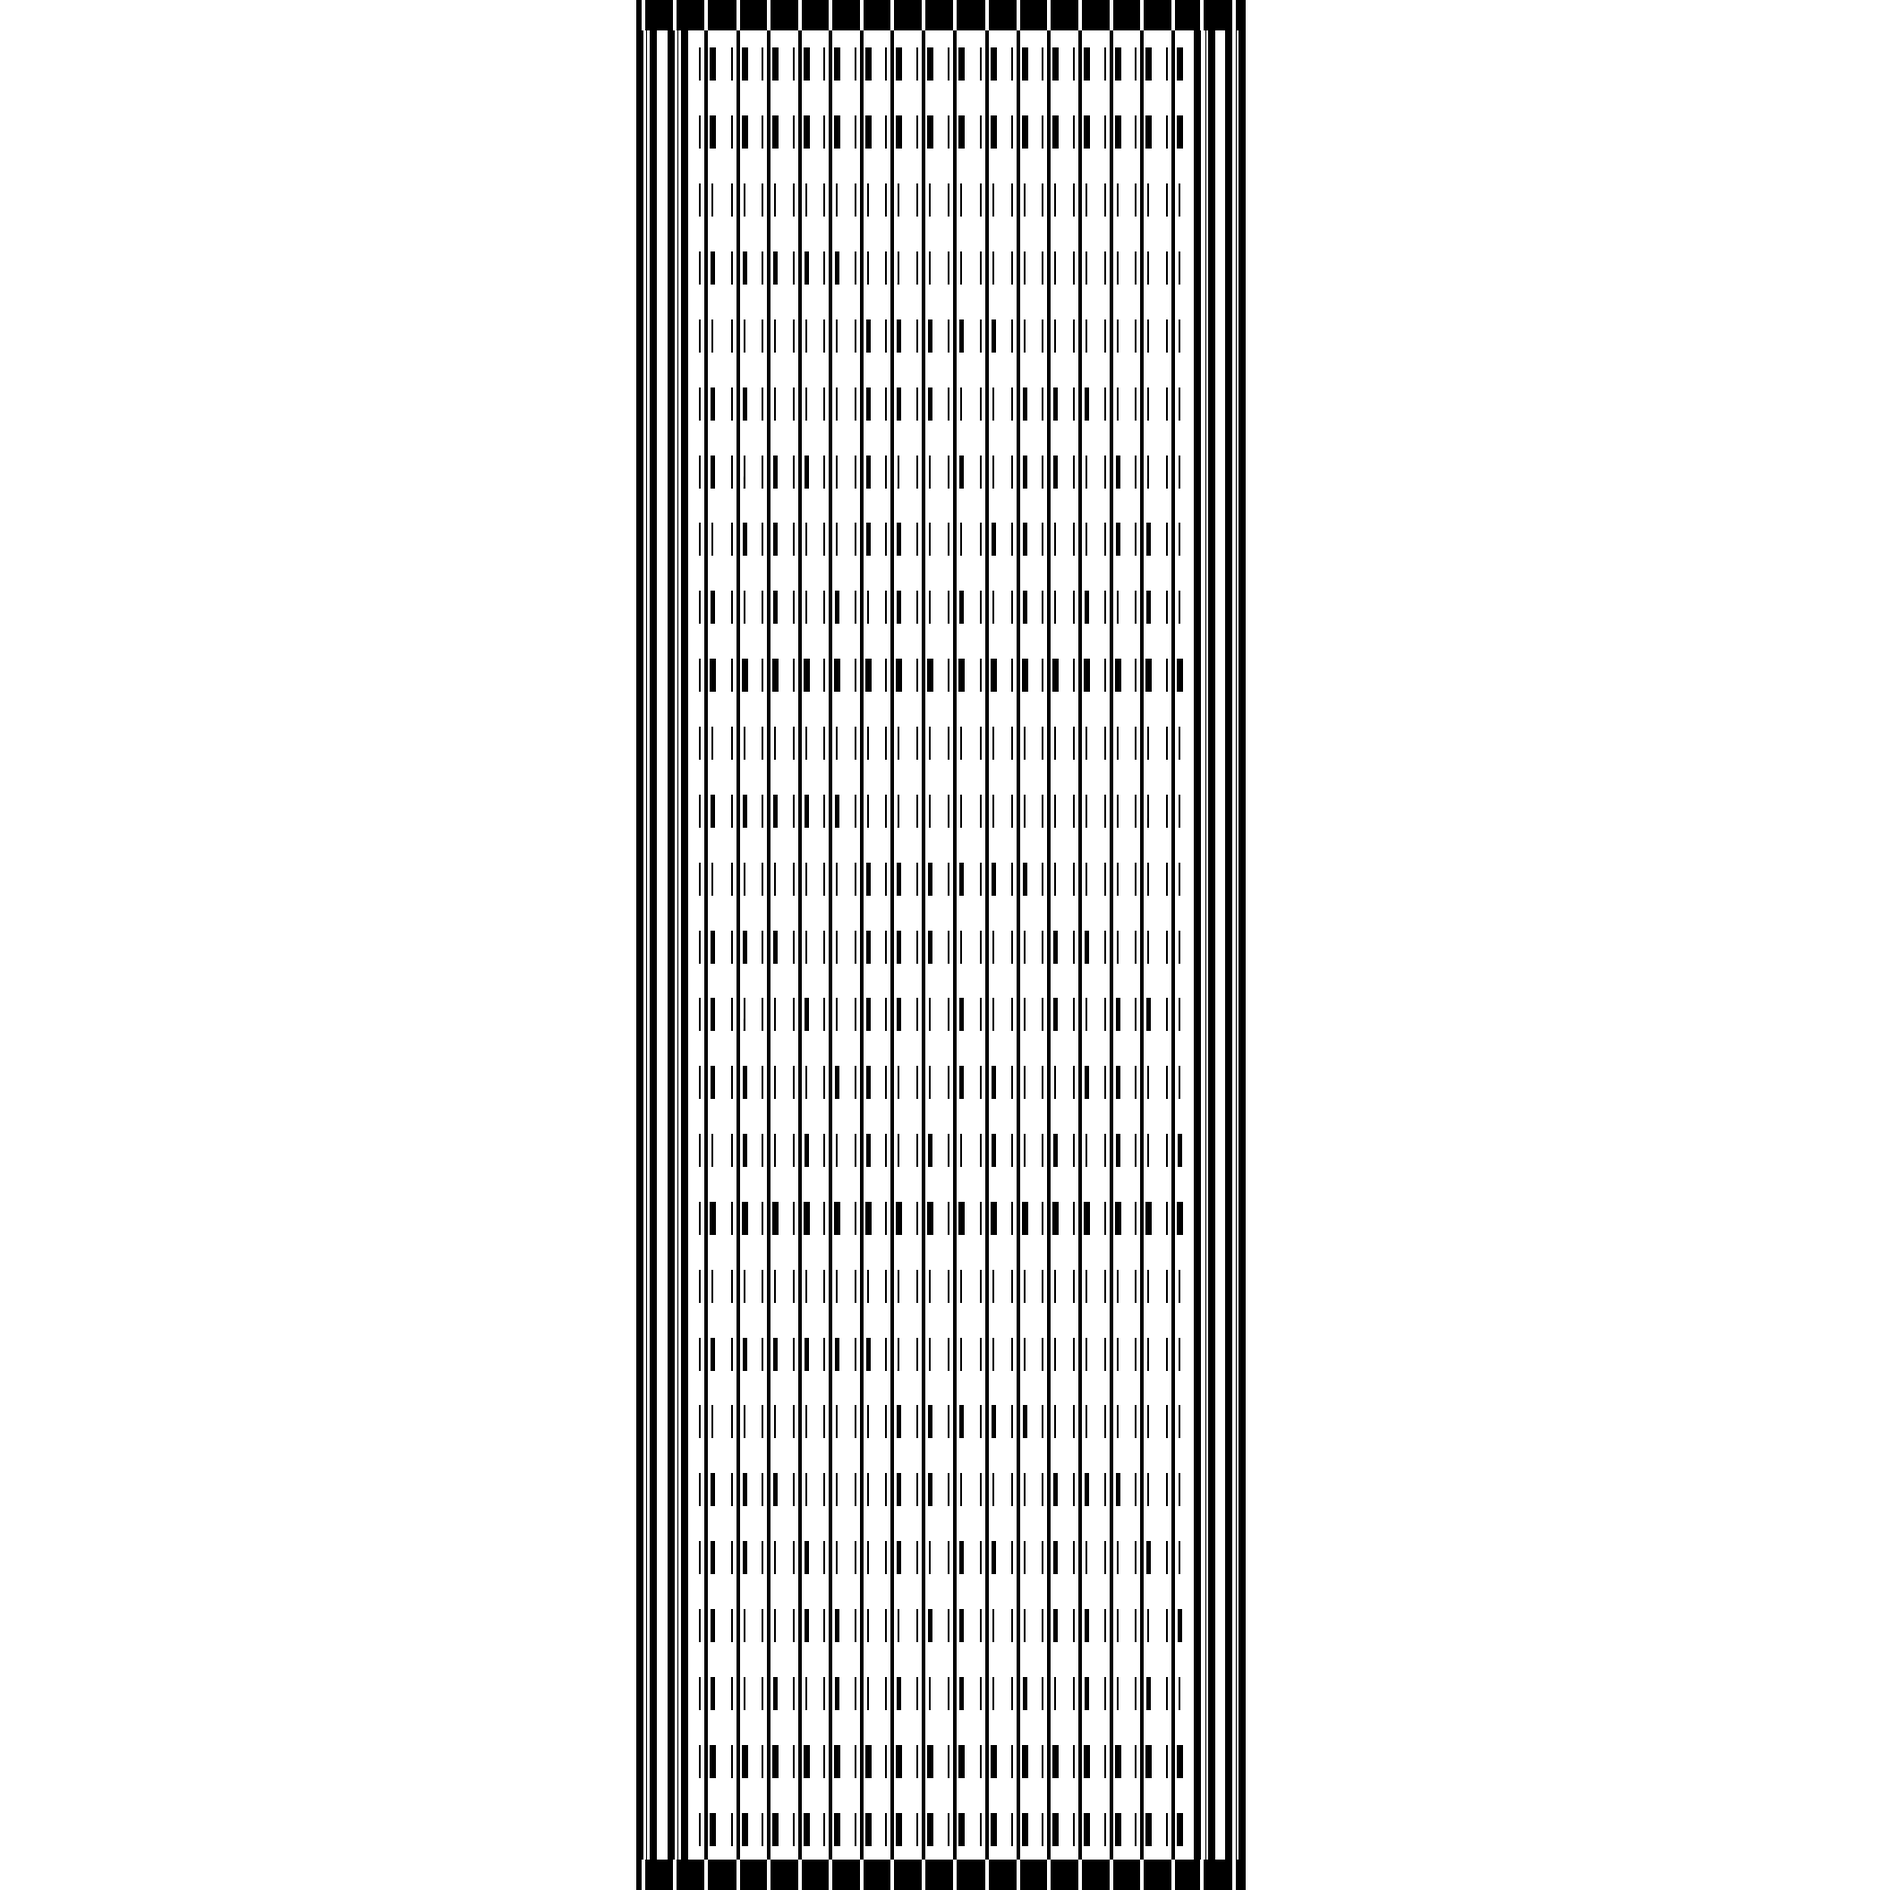
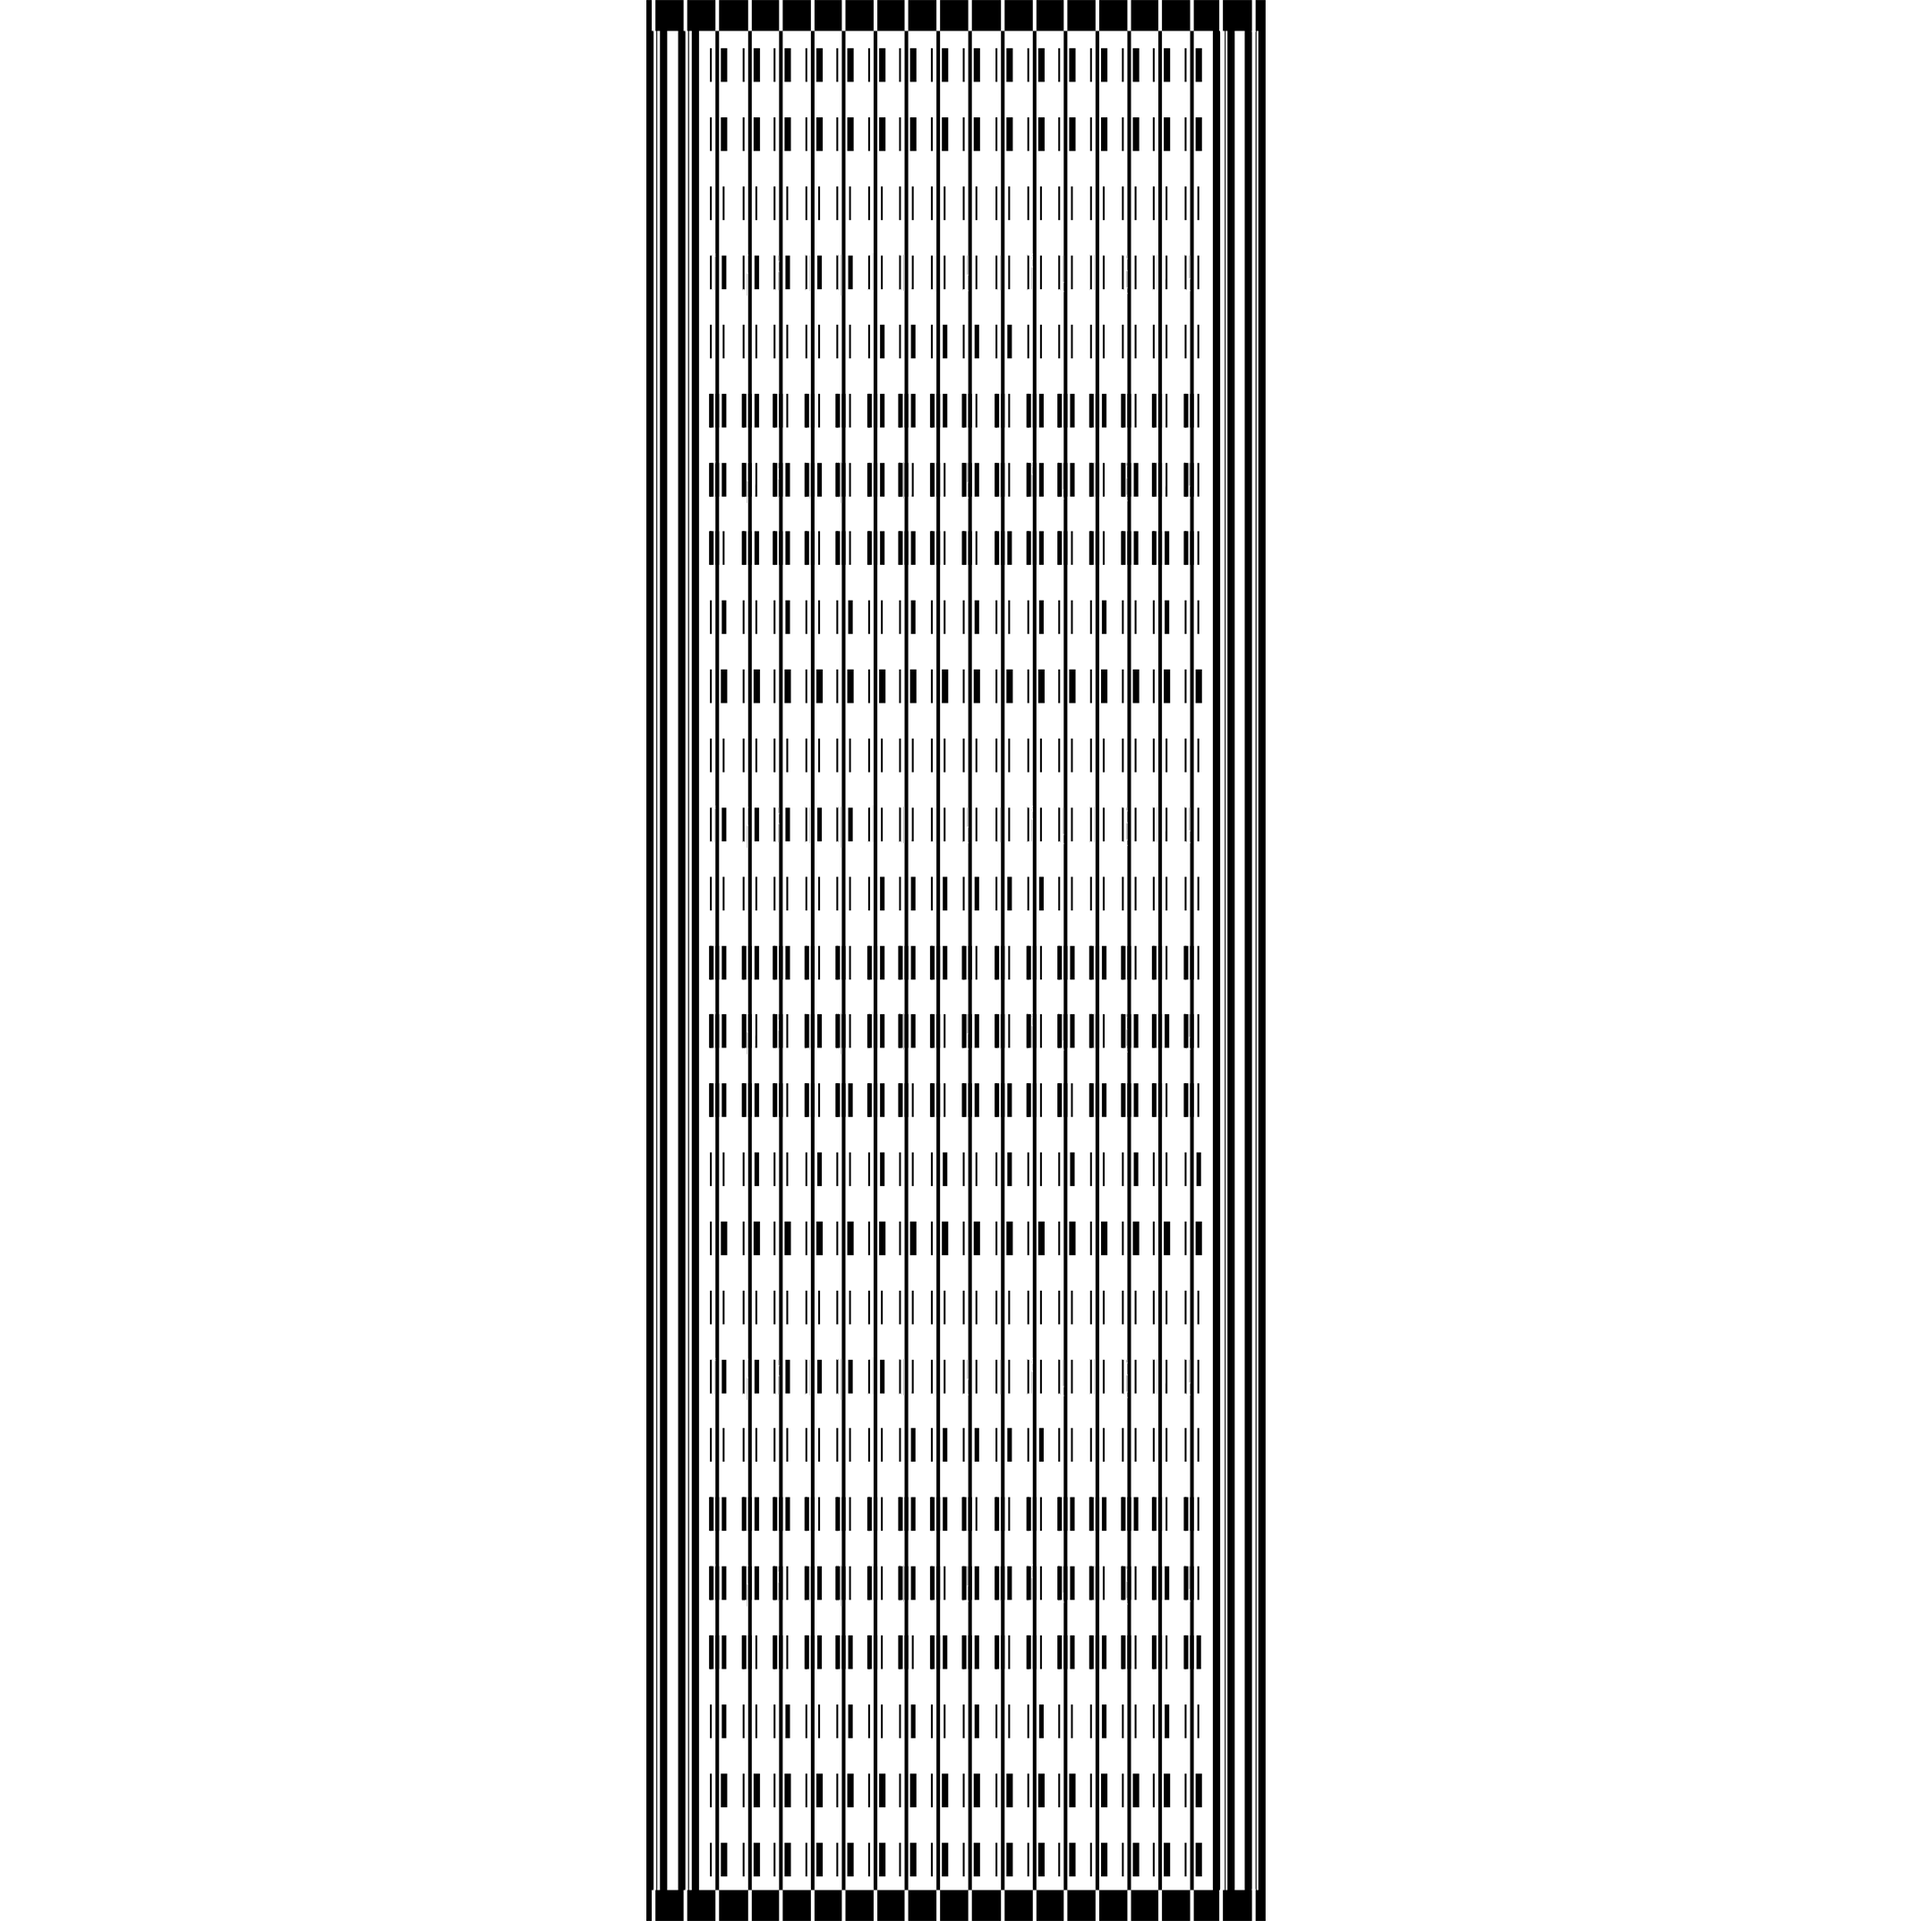
Finished Task place and move track pieces

Changed region(s): [[0.3438, 0.0, 0.6562, 1.0]]

diff --git a/src/app/track-editor/track-editor.component.ts b/src/app/track-editor/track-editor.component.ts
@@ -1,10 +1,13 @@
-import {AfterViewInit, Component, OnInit, ViewChild} from '@angular/core';
+import {AfterViewInit, Component, Inject, OnInit, ViewChild} from '@angular/core';
 import {MatSidenav} from '@angular/material/sidenav';
 import {SideNavRightService} from '../services/side-nav-right.service';
 import {SideNavLeftService} from '../services/side-nav-left.service';
-import {MatDialog} from '@angular/material/dialog';
+import {MAT_DIALOG_DATA, MatDialog} from '@angular/material/dialog';
 import {DisplayGrid, GridsterConfig, GridsterItem, GridType} from 'angular-gridster2';
 import {TeRightSidebarContentComponent} from '../te-right-sidebar-content/te-right-sidebar-content.component';
+import {FormGroup} from '@angular/forms';
+import {HttpClient, HttpHeaders, HttpParams} from '@angular/common/http';
+import {GridItem} from '../model/grid-item';
 
 @Component({
   selector: 'app-track-editor',
@@ -16,13 +19,16 @@ export class TrackEditorComponent implements AfterViewInit, OnInit{
   @ViewChild('sidenav_left') public sidenav_left: MatSidenav;
 
   options: GridsterConfig;
+  maxCols: number = 5; //default
+  maxRows: number = 5; //default
   grid_items: {item: GridsterItem, type: string, url: string, id: number, degree: number}[] = [];
+  grid_item_list: Array<GridItem> = []
+  id_counter: number = 1
 
   constructor(public sidenavServiceRight: SideNavRightService,
               public sideNavServiceLeft: SideNavLeftService,
-              public dialog: MatDialog) {
-
-  }
+              public dialog: MatDialog,
+              public httpClient: HttpClient) {}
 
   ngAfterViewInit(){
     this.sidenavServiceRight.setSidenav(this.sidenav_right);
@@ -33,9 +39,14 @@ export class TrackEditorComponent implements AfterViewInit, OnInit{
     this.options = {
       gridType: GridType.Fixed,
       displayGrid: DisplayGrid.Always,
+      margin: 2,
+      outerMarginBottom: 4,
+      outerMarginTop: 4,
+      outerMarginLeft: 4,
+      outerMarginRight: 4,
       pushItems: false,
-      maxCols: 6,
-      maxRows: 6,
+      maxCols: this.maxCols,
+      maxRows: this.maxRows,
       swap: true,
       swapWhileDragging: false,
       draggable: {
@@ -52,40 +63,78 @@ export class TrackEditorComponent implements AfterViewInit, OnInit{
     console.log(event)
     switch (event){
       case "add_straight":
-        url = "assets/directory/Straight_Template.png"
+        //url = "assets/directory/Straight_Template.png"
+        url = "http://localhost:8080/image?type=straight"
         break;
       case "add_curve":
-        url = "assets/directory/Curve_Template.png"
+        url = "http://localhost:8080/image?type=curve"
         break;
       case "add_intersection":
-        url = "assets/directory/Intersection_2.png"
+        url = "http://localhost:8080/image?type=intersection"
         break;
     }
-    this.grid_items.push({"item": {x: 0, y: 0, cols: 1, rows: 1, id: this.grid_items.length}, "type": event, "url": url, "id": this.grid_items.length, "degree": 0})
-  }
-
-  openDialog() {
-    const dialogRef = this.dialog.open(TrackEditorSettingsContentDialog);
-
-    dialogRef.afterClosed().subscribe(result => {
-      console.log(`Dialog result: ${result}`);
-    });
+    this.grid_items.push({"item": {x: 0, y: 0, cols: 1, rows: 1, id: this.grid_items.length}, "type": event, "url": url, "id": this.id_counter, "degree": 0})
+    this.id_counter++
   }
 
   rotateItem(id){
-    let item = this.grid_items.find(i => i.id === id)
+    let item
+    console.log(id)
+    item = this.grid_items.find(i => i.id === id)
     item.degree += 90
     if (item.degree >= 360){
-      item.degree = 0;
+      item.degree = 0
     }
+    console.log("cols: " + item.item.cols)
+    console.log("rows: " + item.item.rows)
+    console.log("x: " + item.item.x)
+    console.log("y: " + item.item.y)
     document.getElementById('gridster-item-image' + id).style.transform = `rotate(${item.degree}deg)`;
   }
 
+  removeItem($event: MouseEvent | TouchEvent, item){
+    $event.preventDefault();
+    $event.stopPropagation();
+    this.grid_items.splice(this.grid_items.indexOf(item), 1)
+  }
 
+  openDialog() {
+    const dialogRef = this.dialog.open(TrackEditorSettingsContentDialog, {
+      data: {maxRows: this.maxRows, maxCols: this.maxCols}
+    });
+
+    dialogRef.afterClosed().subscribe(result => {
+      this.options.maxRows = result.maxRows;
+      this.options.maxCols = result.maxCols;
+      this.options.api.optionsChanged();
+    });
+  }
+
+  exportAsSingle() {
+    let counter: number
+    this.grid_items.forEach((value, index) => {
+      let grid_item: GridItem = new GridItem(value.type, value.url, value.id, value.degree, value.item.x, value.item.y, value.item.cols, value.item.rows)
+      this.grid_item_list.push(grid_item)
+      console.log(counter++)
+    })
+    this.httpClient.post("http://localhost:8080/export", this.grid_item_list,{
+      'responseType': 'text',
+      'params': new HttpParams().set("maxRows", this.options.maxRows.toString()).set("maxCols", this.options.maxCols.toString()),
+      'headers': new HttpHeaders().set('content-type', 'application/json')
+        .set('Access-Control-Allow-Origin', '*')
+        .set("Access-Control-Allow-Methods", "DELETE, POST, GET, OPTIONS")
+        .set("Access-Control-Allow-Headers", "Content-Type, Access-Control-Allow-Headers, Authorization, X-Requested-With")
+    }).subscribe(data => {
+      console.log(data)
+      this.grid_item_list.splice(0,this.grid_item_list.length)
+    })
+  }
 }
 
 @Component({
   selector: 'settings-content-dialog',
   templateUrl: 'te-settings-content-dialog.html',
 })
-export class TrackEditorSettingsContentDialog {}
+export class TrackEditorSettingsContentDialog {
+  constructor(@Inject(MAT_DIALOG_DATA) public data: {maxRows: number, maxCols: number}) { }
+}

diff --git a/src/app/track-editor/track-editor.component.html b/src/app/track-editor/track-editor.component.html
@@ -13,8 +13,8 @@
         <a mat-list-item [matMenuTriggerFor]="export_menu">
           Export
           <mat-menu  #export_menu="matMenu">
-            <button mat-menu-item>Item 1</button>
-            <button mat-menu-item>Item 2</button>
+            <button mat-menu-item (click)="exportAsSingle()">As one image</button>
+            <button mat-menu-item>As separate images</button>
           </mat-menu>
         </a>
       </mat-nav-list>
@@ -25,16 +25,22 @@
             <div class="gridster-item-img-overlay">
               <mat-card class="mat-elevation-z0">
                 <mat-card-actions>
-                  <button mat-icon-button class="gridster-item-img-overlay-button" (click)="rotateItem(grid_item.id)"><mat-icon color="accent">rotate_right</mat-icon></button>
+                  <button mat-icon-button class="gridster-item-img-overlay-button" (click)="rotateItem(grid_item.id)">
+                    {{grid_item.id}}
+                    <mat-icon color="accent">
+                      rotate_right
+                    </mat-icon>
+                  </button>
+                  <button mat-icon-button color="accent" (mousedown)="removeItem($event, grid_item)"
+                          (touchstart)="removeItem($event, grid_item)">
+                    <mat-icon>delete</mat-icon>
+                  </button>
                 </mat-card-actions>
               </mat-card>
             </div>
             <img src="{{grid_item.url}}" id="{{'gridster-item-image' + grid_item.id}}" class="gridster-item-img" alt="">
           </gridster-item>
         </gridster>
-      <div>
-        <button mat-button>rotate</button>
-      </div>
     </mat-sidenav-content>
     <mat-sidenav #sidenav_right mode="side" opened="true" position="end" class="sidenav_right">
       <app-te-right-sidebar-content (button_clicked)="addItem($event)"></app-te-right-sidebar-content>

diff --git a/src/app/model/grid-item.ts b/src/app/model/grid-item.ts
@@ -1,0 +1,97 @@
+import {GridsterItem} from 'angular-gridster2';
+
+export class GridItem {
+  private _type: string
+  private _url: string
+  private _id: number
+  private _degree: number
+  private _x_cord: number
+  private _y_cord: number
+  private _row: number
+  private _col: number
+
+  constructor(
+    type: string,
+    url: string,
+    id: number,
+    degree: number,
+    _x_cord: number,
+    _y_cord: number,
+    _row: number,
+    _col: number
+    ) {
+    this._type = type;
+    this._url = url;
+    this._id = id;
+    this._degree = degree;
+    this._x_cord = _x_cord;
+    this._y_cord = _y_cord;
+    this._row = _row;
+    this._col = _col;
+  }
+
+
+  get type(): string {
+    return this._type;
+  }
+
+  set type(value: string) {
+    this._type = value;
+  }
+
+  get url(): string {
+    return this._url;
+  }
+
+  set url(value: string) {
+    this._url = value;
+  }
+
+  get id(): number {
+    return this._id;
+  }
+
+  set id(value: number) {
+    this._id = value;
+  }
+
+  get degree(): number {
+    return this._degree;
+  }
+
+  set degree(value: number) {
+    this._degree = value;
+  }
+
+  get x_cord(): number {
+    return this._x_cord;
+  }
+
+  set x_cord(value: number) {
+    this._x_cord = value;
+  }
+
+  get y_cord(): number {
+    return this._y_cord;
+  }
+
+  set y_cord(value: number) {
+    this._y_cord = value;
+  }
+
+  get row(): number {
+    return this._row;
+  }
+
+  set row(value: number) {
+    this._row = value;
+  }
+
+  get col(): number {
+    return this._col;
+  }
+
+  set col(value: number) {
+    this._col = value;
+  }
+}

diff --git a/src/app/track-editor/te-settings-content-dialog.html b/src/app/track-editor/te-settings-content-dialog.html
@@ -1,25 +1,21 @@
 <h2 mat-dialog-title>Settings</h2>
 <mat-dialog-content class="mat-typography">
-  <p>
-    <mat-form-field appearance="legacy">
-      <mat-label>Legacy form field</mat-label>
-      <input matInput placeholder="Placeholder">
-      <mat-hint>Hint</mat-hint>
+  <mat-form-field>
+    <mat-form-field>
+      <mat-label>Amount of Columns</mat-label>
+      <input matInput [(ngModel)]="data.maxCols">
     </mat-form-field>
-  </p>
-  <p>
-    <mat-form-field appearance="legacy">
-      <mat-label>Select</mat-label>
-      <mat-select>
-        <mat-option value="one">First option</mat-option>
-        <mat-option value="two">Second option</mat-option>
-      </mat-select>
+  </mat-form-field>
+  <mat-form-field>
+    <mat-form-field>
+      <mat-label>Amount of Rows</mat-label>
+      <input matInput [(ngModel)]="data.maxRows">
     </mat-form-field>
-  </p>
+  </mat-form-field>
 </mat-dialog-content>
 <mat-dialog-actions align="end">
   <button mat-button mat-dialog-close>Cancel</button>
-  <button mat-button [mat-dialog-close]="true" cdkFocusInitial>Save</button>
+  <button mat-button [mat-dialog-close]="data" cdkFocusInitial>Save</button>
 </mat-dialog-actions>
 
 

diff --git a/src/app/app.module.ts b/src/app/app.module.ts
@@ -39,6 +39,7 @@ import {MatBottomSheetModule} from '@angular/material/bottom-sheet';
 import {MatGridListModule} from '@angular/material/grid-list';
 import {DragDropModule} from '@angular/cdk/drag-drop';
 import {GridsterModule} from 'angular-gridster2';
+import {HttpClientModule} from '@angular/common/http';
 
 
 
@@ -88,7 +89,8 @@ import {GridsterModule} from 'angular-gridster2';
     MatBottomSheetModule,
     MatGridListModule,
     DragDropModule,
-    GridsterModule
+    GridsterModule,
+    HttpClientModule
   ],
   providers: [
     SideNavLeftService,

diff --git a/src/app/track-editor/track-editor.component.css b/src/app/track-editor/track-editor.component.css
@@ -1,9 +1,5 @@
-.work_field mat-card {
-  margin: 10px;
-  padding: 10px;
-  min-height: 90%;
-
-  background-image: url("src/card-main-bg.png");
+:host gridster {
+  background: lightgrey;
 }
 
 gridster-item .gridster-item-img {
@@ -37,10 +33,8 @@ gridster-item:hover .gridster-item-img-overlay mat-card{
 }
 
 gridster-item:hover .gridster-item-img-overlay mat-card .gridster-item-img-overlay-button{
-  z-index: 999;
+  z-index: 100;
 }
-
-
 
 .transform90 {
   transform: rotate(-90deg);

diff --git a/src/app/model/grid-item.spec.ts b/src/app/model/grid-item.spec.ts
@@ -1,0 +1,7 @@
+import { GridItem } from './grid-item';
+
+describe('GridItem', () => {
+  it('should create an instance', () => {
+    expect(new GridItem()).toBeTruthy();
+  });
+});
